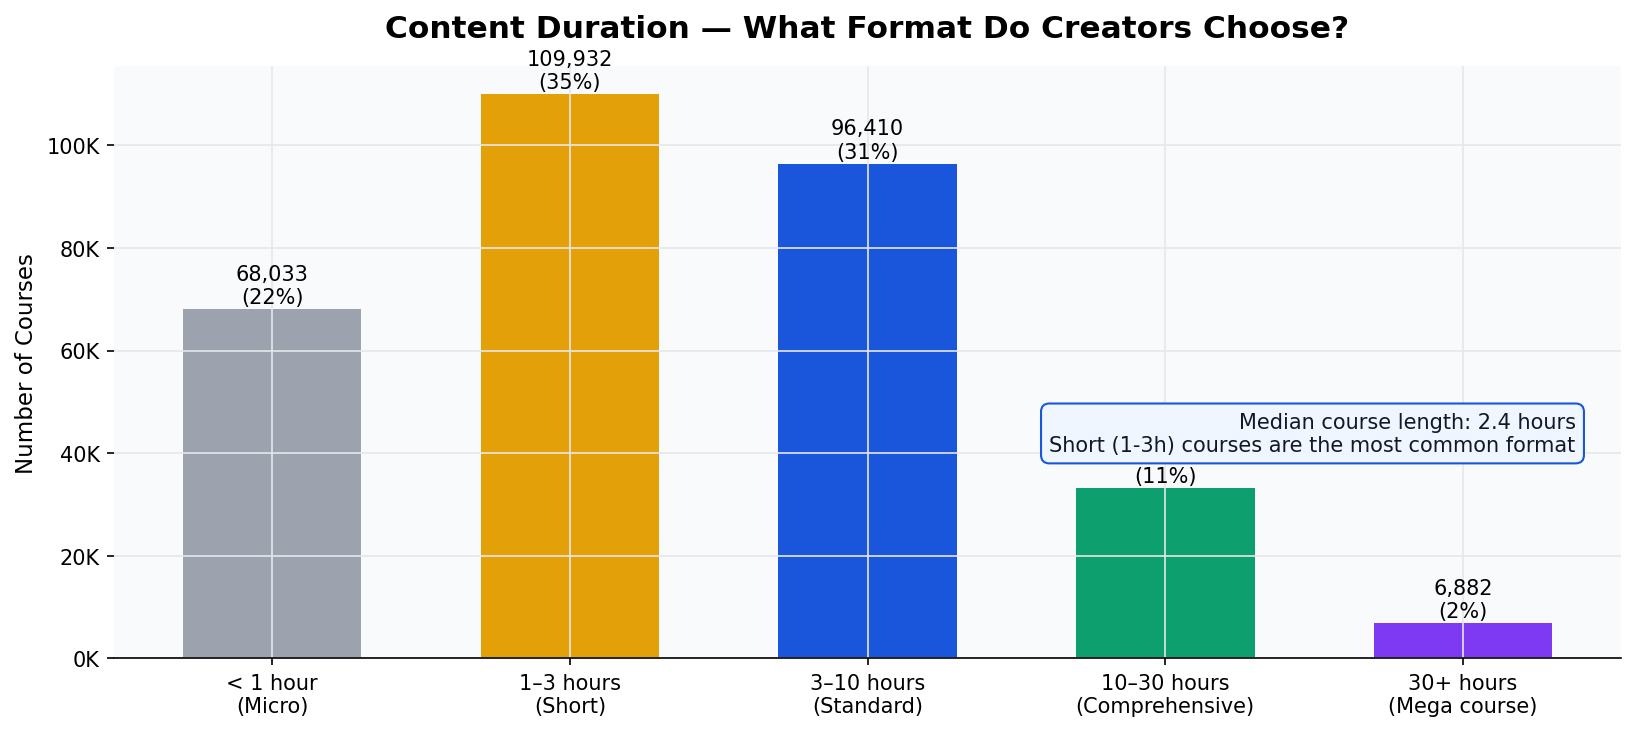
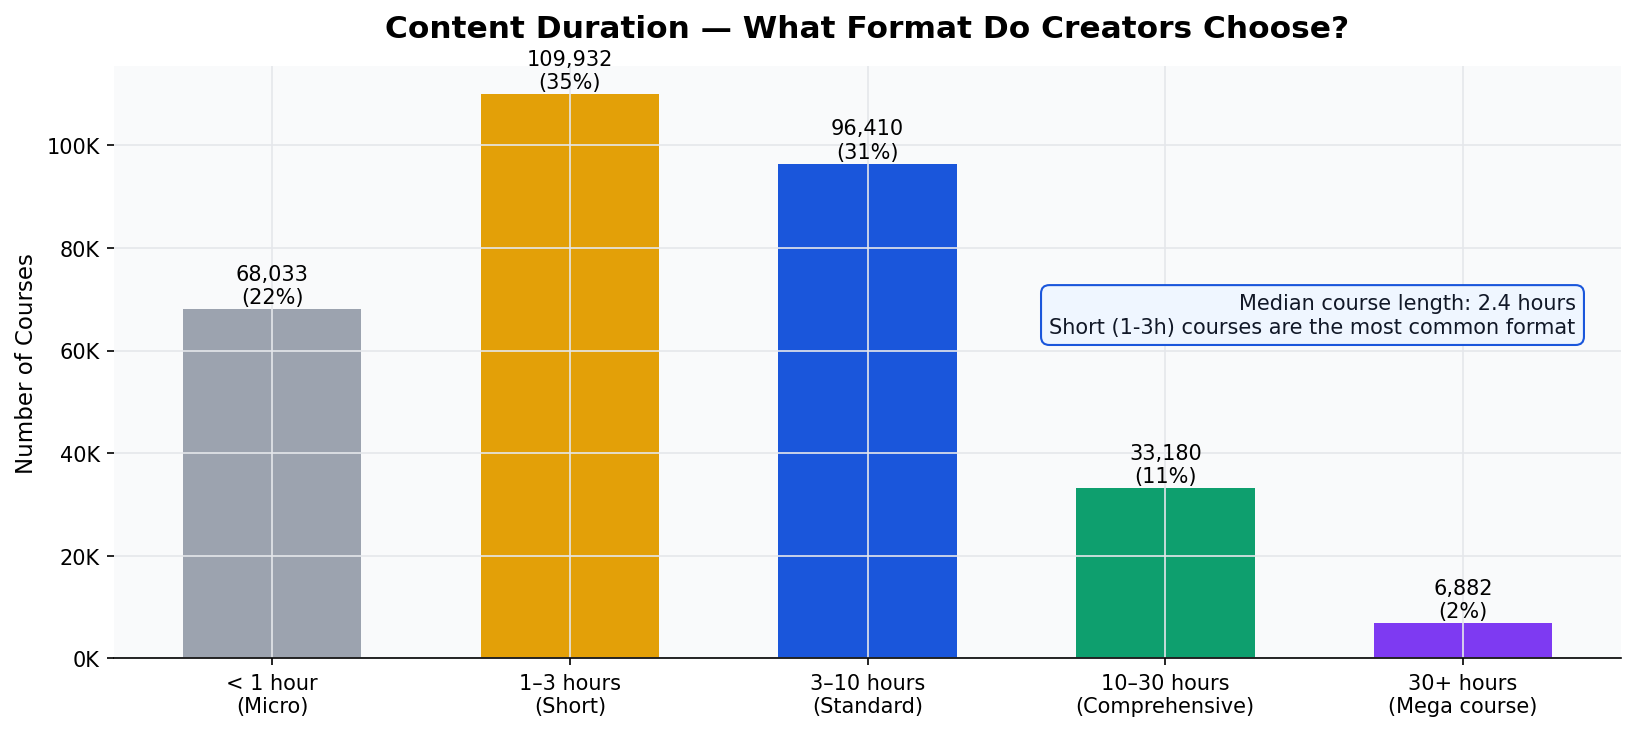
init

Changed region(s): [[0.6239, 0.5417, 0.967, 0.6621], [0.6239, 0.3912, 0.967, 0.4815]]

diff --git a/scripts/generate_charts.py b/scripts/generate_charts.py
@@ -383,7 +383,7 @@ median_h = df["duration_hours"].median()
 ax.annotate(
     f"Median course length: {median_h:.1f} hours\n"
     f"Short (1-3h) courses are the most common format",
-    xy=(0.97, 0.35), xycoords="axes fraction",
+    xy=(0.97, 0.55), xycoords="axes fraction",
     ha="right", fontsize=10, color=C["dark"],
     bbox=dict(boxstyle="round,pad=0.4", fc="#eff6ff", ec=C["blue"], lw=1),
 )
@@ -456,7 +456,7 @@ ax.axvline(x=lang_rating["avg_rating"].mean(), color=C["red"],
 ax.legend(loc="lower right")
 ax.annotate(
     "Rating differences are narrow — quality is uniformly high across all language markets",
-    xy=(0.97, 0.92), xycoords="axes fraction",
+    xy=(0.97, 0.40), xycoords="axes fraction",
     ha="right", fontsize=10, color=C["dark"],
     bbox=dict(boxstyle="round,pad=0.4", fc="#f0fdf4", ec=C["green"], lw=1),
 )
